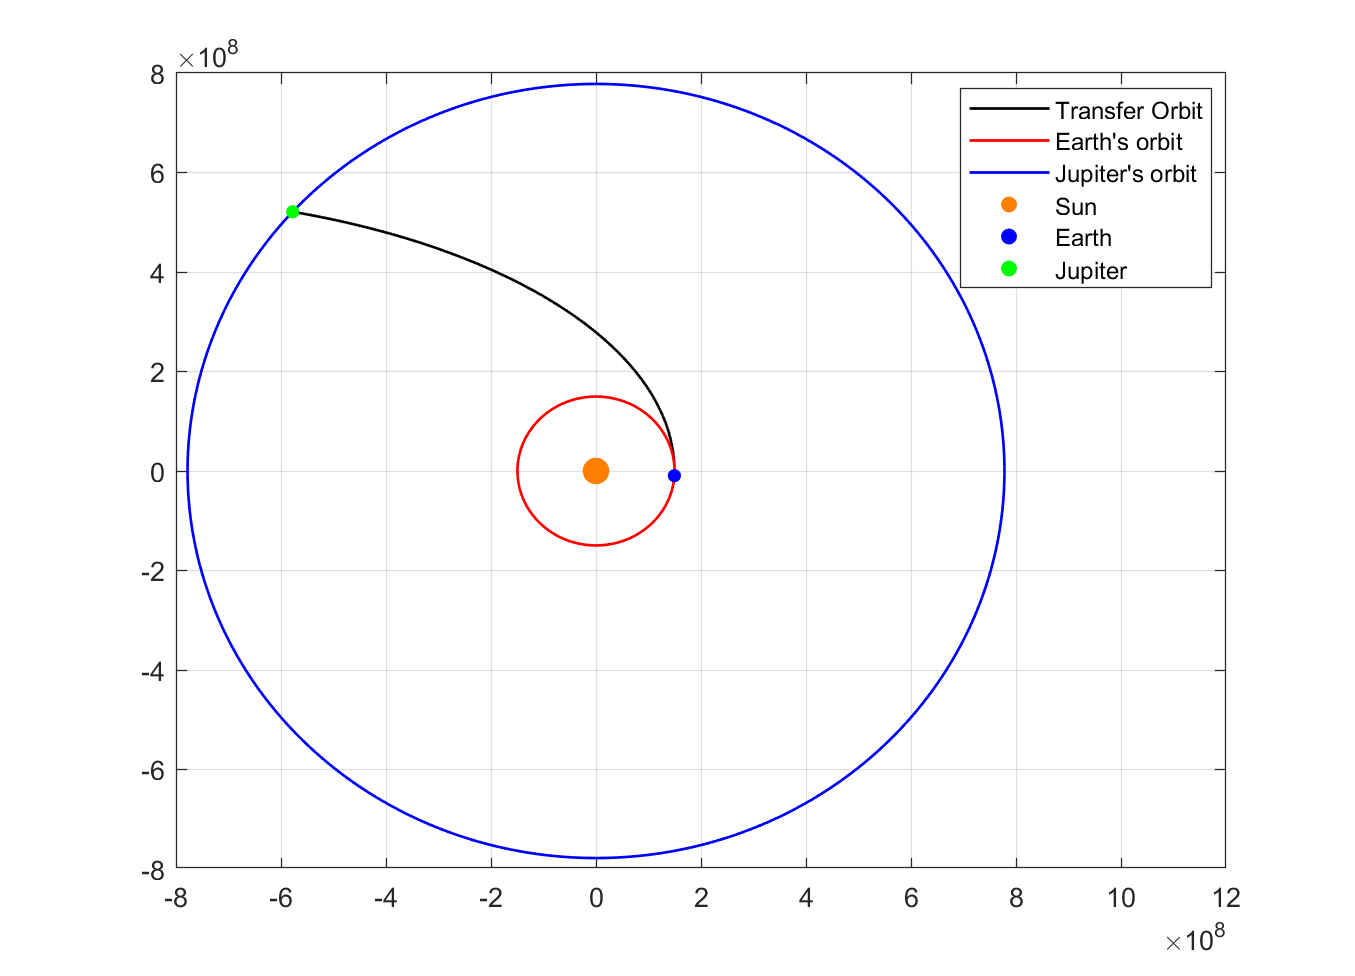
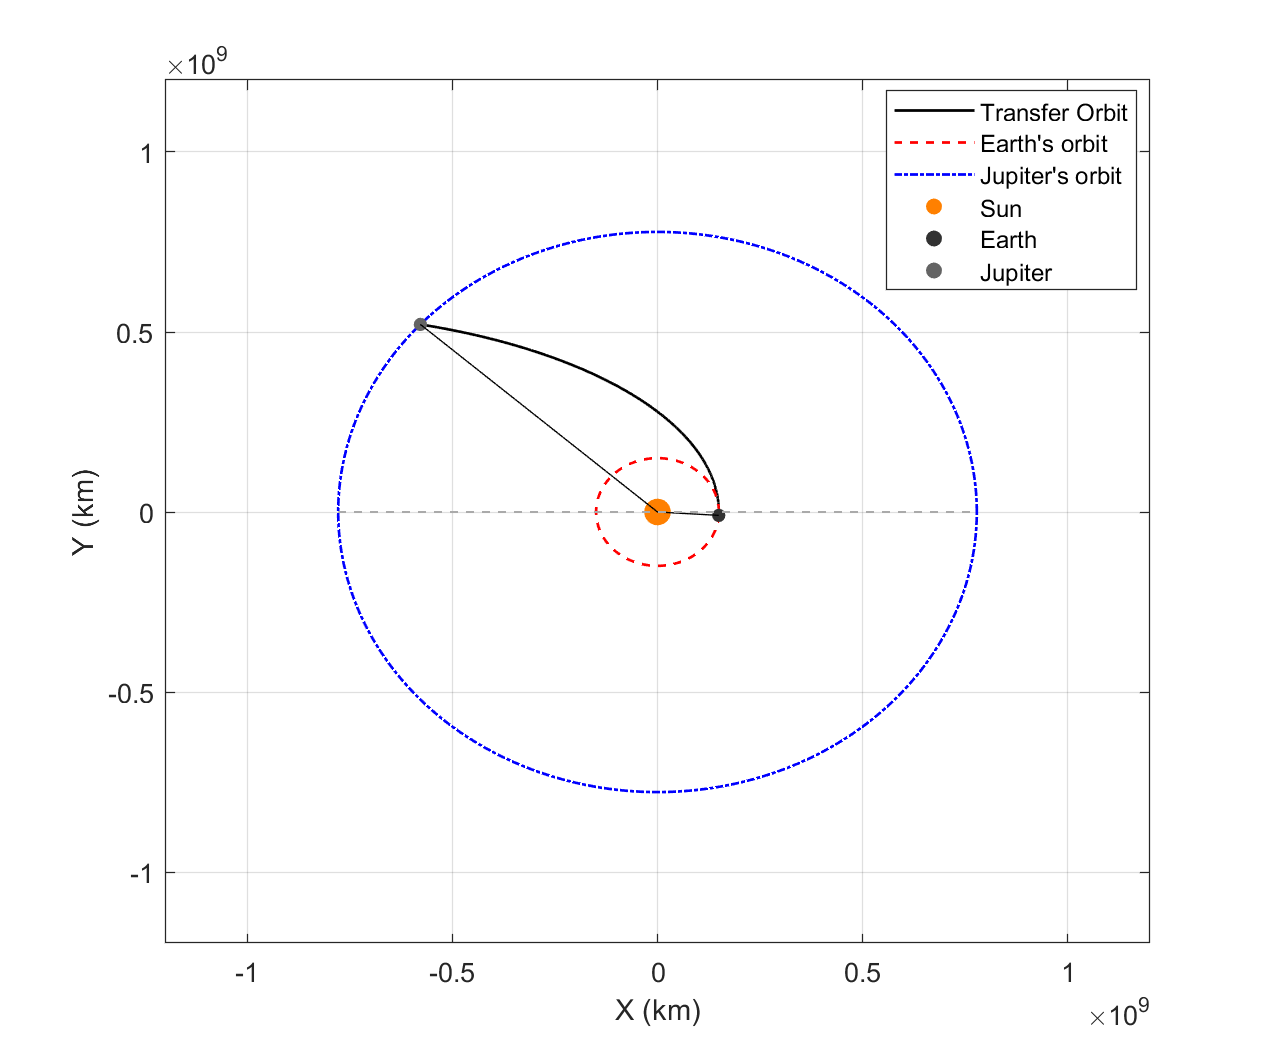
updtae sensitivity analysis

diff --git a/sensitivity anaylisis/SENSITIVITY_ANALYSIS_EJ.m b/sensitivity anaylisis/SENSITIVITY_ANALYSIS_EJ.m
@@ -1,0 +1,50 @@
+clc 
+clear
+close all
+
+% Sensitivity Analysis
+
+% Define knwon values
+R1 = 149.6e6;       % Distance to Earth from Sun (km)
+R2 = 778e6;         % Distance to Jupiter from Sun (km)
+mu_S = 1.327e11;    % Sun's gravitational parameter (km^3/s^2)
+mu_E = 398600;      % Earth's gravitational parameter (km^3/s^2)
+r_p = 6678;         % Distance of spacecraft from Earth (km)
+
+% Define the transfer orbit parameters
+theta1 = 356.4033;                                  % True Anomaly of Earth (º)
+theta2 = 137.9554;                                  % True anomaly of Jupiter (º)
+e = (R2-R1)/(R1*cosd(theta1) - R2*cosd(theta2));    % Eccentricity of transfer orbit
+h = sqrt(mu_S*R1*(1+e*cosd(theta1)));               % Specific angular momentum of transfer orbit (km^2/s)
+peri =  149463000;                                  % Periapsis of transfer orbit (km)
+apo =  2053310000;                                  % Apoapsis of transfer orbit (km)
+a = (peri+apo)/2;                                   % Semi-major axis of transfer orbit (km)
+
+% Define velocities
+v_inf = 10.881197003;                   % Departure hyperbolic excess velocity (km/s)
+v_E = sqrt(mu_S/R1);                    % Velocity of Earth (km/s)
+v_r = (mu_S/h)*e*sind(theta1);          % Radial velocity of spacecraft at departure (km/s)
+v_per = (mu_S/h)*(1+e*cosd(theta1));    % Perpendicular velocity of spacecraft at departure (km/s)
+v_A = sqrt((v_r^2) + (v_per^2));        % Velocity magnitude of spcecraft at departure (km/s)
+v_p = sqrt((v_inf^2) + (2*mu_E/r_p));   % Burnout velocity 
+
+v_A1 = sqrt(mu_S * ((2/R1)-(1/a)));
+
+% Define variation parameters
+dvA_drp = mu_E/(v_inf*(r_p^2));     % Change in v_A due to variations in r_p
+dvA_dvp = v_p/v_inf;                % Change in v_A due to variations in v_p
+
+% Write factors 
+factor = (2*mu_S*(cosd(theta1) - cosd(theta2)))/(((mu_S*(cosd(theta1) - cosd(theta2)) + (v_per^2)*R1*cosd(theta2))));
+k_rp = mu_E/(v_inf*r_p*v_per);
+k_vp = ((v_inf)+(2*mu_E/(r_p*v_inf)))/(v_per); 
+
+%substitue into expression for dR2/R2
+rp_variation = factor*k_rp;
+vp_variation = factor*k_vp;
+
+% Errors
+rp_error = rp_variation*0.0001*R2;
+vp_error = vp_variation*0.0001*R2;
+
+

diff --git a/sensitivity anaylisis/transfer_orbit_plot_EJ.m b/sensitivity anaylisis/transfer_orbit_plot_EJ.m
@@ -1,0 +1,72 @@
+clc
+clear
+close all
+
+h = 6.080792635971896e+09;
+mu = 1.327e11;
+e = 0.864294954010606;
+theta = 0:1:360;
+theta_t = (360-356.4033):0.1:137.9554;
+
+r = ((h*h/mu)./(1+e*cosd(theta)));
+r_t = ((h*h/mu)./(1+e*cosd(theta_t)));
+
+r_vec = r .* [cosd(theta);sind(theta)];
+r_vec_t = r_t .* [cosd(theta_t);sind(theta_t)];
+
+theta1 = 356.4033;
+theta2 = 137.9554;
+R1 = 149.6e6;       % Distance to Earth from Sun (km)
+R2 = 778e6;         % Distance to Jupiter from Sun (km)
+
+%thetas
+t1 = 0:0.1:theta1;
+t2 = 0:0.1:theta2;
+
+figure
+plot(r_vec(1,:),r_vec(2,:),"k");
+hold on
+scatter(0, 0, 100, 'filled', 'MarkerFaceColor', [255,128,0]/255);
+scatter(R1*cosd(theta1),R1*sind(theta1),25, 'filled', 'MarkerFaceColor', [64,64,64]/255);
+scatter(R2*cosd(theta2),R2*sind(theta2),25, 'filled', 'MarkerFaceColor', [128,128,128]/255);
+plot(R1*cosd(theta),R1*sind(theta),"r");
+plot(R2*cosd(theta),R2*sind(theta),"b");
+hold off
+legend("Transfer Orbit", "Sun","Earth","Jupiter","Earth's orbit", "Jupiter's orbit");
+grid on
+
+figure
+plot(r_vec_t(1,:),r_vec_t(2,:),"k",LineWidth=1);
+hold on
+plot(R1*cosd(theta),R1*sind(theta),"--r", LineWidth=1);
+plot(R2*cosd(theta),R2*sind(theta),"-.b",LineWidth=1);
+scatter(0, 0, 100, 'filled', 'MarkerFaceColor', [255,128,0]/255);
+scatter(R1*cosd(theta1),R1*sind(theta1),25, 'filled', 'MarkerFaceColor', [50,50,50]/255);
+scatter(R2*cosd(theta2),R2*sind(theta2),25, 'filled', 'MarkerFaceColor', [100,100,100]/255);
+plot([0,R1*cosd(theta1)],[0,R1*sind(theta1)],"k");
+plot([0,R2*cosd(theta2)],[0,R2*sind(theta2)],"k");
+% plot(R1*0.45*cosd(t1), R1*0.45*sind(t1),"k");
+% plot(R1*0.35*cosd(t2), R1*0.35*sind(t2),"k");
+plot([1.2*R2*cosd(180),1.2*R2*cosd(0)],[R2*sind(180),R2*sind(0)],"--", 'Color',[170,170,170]/255,LineWidth=0.75);
+hold off
+%legend("Transfer Orbit", "Earth's orbit","Jupiter's orbit","Sun","Earth", "Jupiter");
+legend("Transfer Orbit", "Earth's orbit","Jupiter's orbit");
+grid on
+xlim([-10e8 10e8]);
+ylim([-10e8 10e8]);
+xlabel("X (km)");
+ylabel("Y (km)");
+
+% From the plot:
+%       periapsis: 149463000
+%       apoapsis: 2053310000
+
+
+
+
+
+
+
+
+
+

diff --git a/sensitivity anaylisis/transfer_orbit_plot_JN.m b/sensitivity anaylisis/transfer_orbit_plot_JN.m
@@ -1,0 +1,72 @@
+clc
+clear
+close all
+
+h = 1.670156274285463e+10;
+mu = 1.327e11;
+e = 2.156160007565241;
+theta = 0:1:360;
+theta_t = (37.8795):0.1:104.2742;
+
+r = ((h*h/mu)./(1+e*cosd(theta)));
+r_t = ((h*h/mu)./(1+e*cosd(theta_t)));
+
+r_vec = r .* [cosd(theta);sind(theta)];
+r_vec_t = r_t .* [cosd(theta_t);sind(theta_t)];
+
+theta1 = 37.8795;
+theta2 = 104.2742;
+R1 = 778e6;       % Distance to Earth from Sun (km)
+R2 = 149.6e6*30;         % Distance to Jupiter from Sun (km)
+
+%thetas
+t1 = 0:0.1:theta1;
+t2 = 0:0.1:theta2;
+
+figure
+plot(r_vec(1,:),r_vec(2,:),"k");
+hold on
+scatter(0, 0, 100, 'filled', 'MarkerFaceColor', [255,128,0]/255);
+scatter(R1*cosd(theta1),R1*sind(theta1),25, 'filled', 'MarkerFaceColor', [64,64,64]/255);
+scatter(R2*cosd(theta2),R2*sind(theta2),25, 'filled', 'MarkerFaceColor', [128,128,128]/255);
+plot(R1*cosd(theta),R1*sind(theta),"r");
+plot(R2*cosd(theta),R2*sind(theta),"b");
+hold off
+legend("Transfer Orbit", "Sun","Earth","Jupiter","Earth's orbit", "Jupiter's orbit");
+grid on
+
+figure
+plot(r_vec_t(1,:),r_vec_t(2,:),"k",LineWidth=1);
+hold on
+plot(R1*cosd(theta),R1*sind(theta),"--r", LineWidth=1);
+plot(R2*cosd(theta),R2*sind(theta),"-.b",LineWidth=1);
+scatter(0, 0, 100, 'filled', 'MarkerFaceColor', [255,128,0]/255);
+scatter(R1*cosd(theta1),R1*sind(theta1),25, 'filled', 'MarkerFaceColor', [50,50,50]/255);
+scatter(R2*cosd(theta2),R2*sind(theta2),25, 'filled', 'MarkerFaceColor', [100,100,100]/255);
+plot([0,R1*cosd(theta1)],[0,R1*sind(theta1)],"k");
+plot([0,R2*cosd(theta2)],[0,R2*sind(theta2)],"k");
+% plot(R1*0.45*cosd(t1), R1*0.45*sind(t1),"k");
+% plot(R1*0.35*cosd(t2), R1*0.35*sind(t2),"k");
+plot([1.2*R2*cosd(180),1.2*R2*cosd(0)],[R2*sind(180),R2*sind(0)],"--", 'Color',[170,170,170]/255,LineWidth=0.75);
+hold off
+%legend("Transfer Orbit", "Earth's orbit","Jupiter's orbit","Sun","Earth", "Jupiter");
+legend("Transfer Orbit", "Earth's orbit","Jupiter's orbit");
+grid on
+xlim([-10e8 10e8]);
+ylim([-10e8 10e8]);
+xlabel("X (km)");
+ylabel("Y (km)");
+
+% From the plot:
+%       periapsis: 149463000
+%       apoapsis: 2053310000
+
+
+
+
+
+
+
+
+
+

diff --git a/sensitivity anaylisis/SENSITIVITY_ANALYSIS_JN.m b/sensitivity anaylisis/SENSITIVITY_ANALYSIS_JN.m
@@ -1,0 +1,48 @@
+clc 
+clear
+close all
+
+% Sensitivity Analysis
+
+% Define knwon values
+R1 = 778e6;         % Distance to Jupiter from Sun (km)
+R2 = 149.6e6*30;    % Distance to Neptune from Sun (km)
+mu_S = 1.327e11;    % Sun's gravitational parameter (km^3/s^2)
+mu_J = 126.687e6;   % Jupiter's gravitational parameter (km^3/s^2)
+r_p = 27*71492	;   % Distance of spacecraft from Jupiter (km)
+
+% Define the transfer orbit parameters
+theta1 = 37.8795;                                   % True Anomaly of Earth (º)
+theta2 = 104.2742;                                  % True anomaly of Jupiter (º)
+e = (R2-R1)/(R1*cosd(theta1) - R2*cosd(theta2));    % Eccentricity of transfer orbit
+h = sqrt(mu_S*R1*(1+e*cosd(theta1)));               % Specific angular momentum of transfer orbit (km^2/s)
+a = (h^2) / (mu_S * (e^2 - 1));                     % Semi-major axis of transfer orbit (km)
+
+% Define velocities
+v_inf = 14.085528632;                   % Departure hyperbolic excess velocity (km/s)
+v_J = sqrt(mu_S/R1);                    % Velocity of Jupiter (km/s)
+v_r = (mu_S/h)*e*sind(theta1);          % Radial velocity of spacecraft at departure (km/s)
+v_per = (mu_S/h)*(1+e*cosd(theta1));    % Perpendicular velocity of spacecraft at departure (km/s)
+v_A = sqrt((v_r^2) + (v_per^2));        % Velocity magnitude of spcecraft at departure (km/s)
+v_p = sqrt((v_inf^2) + (2*mu_J/r_p));   % Burnout velocity 
+
+v_A1 = sqrt(mu_S * ((2/R1)+(1/a)));
+
+% Define variation parameters
+dvA_drp = mu_J/(v_inf*(r_p^2));     % Change in v_A due to variations in r_p
+dvA_dvp = v_p/v_inf;                % Change in v_A due to variations in v_p
+
+% Write factors 
+factor = (2*mu_S*(cosd(theta1) - cosd(theta2)))/(((mu_S*(cosd(theta1) - cosd(theta2)) + (v_per^2)*R1*cosd(theta2))));
+k_rp = mu_J/(v_inf*r_p*v_per);
+k_vp = ((v_inf)+(2*mu_J/(r_p*v_inf)))/(v_per); 
+
+%substitue into expression for dR2/R2
+rp_variation = factor*k_rp;
+vp_variation = factor*k_vp;
+
+% Errors
+rp_error = rp_variation*0.0001*R2;
+vp_error = vp_variation*0.0001*R2;
+
+
